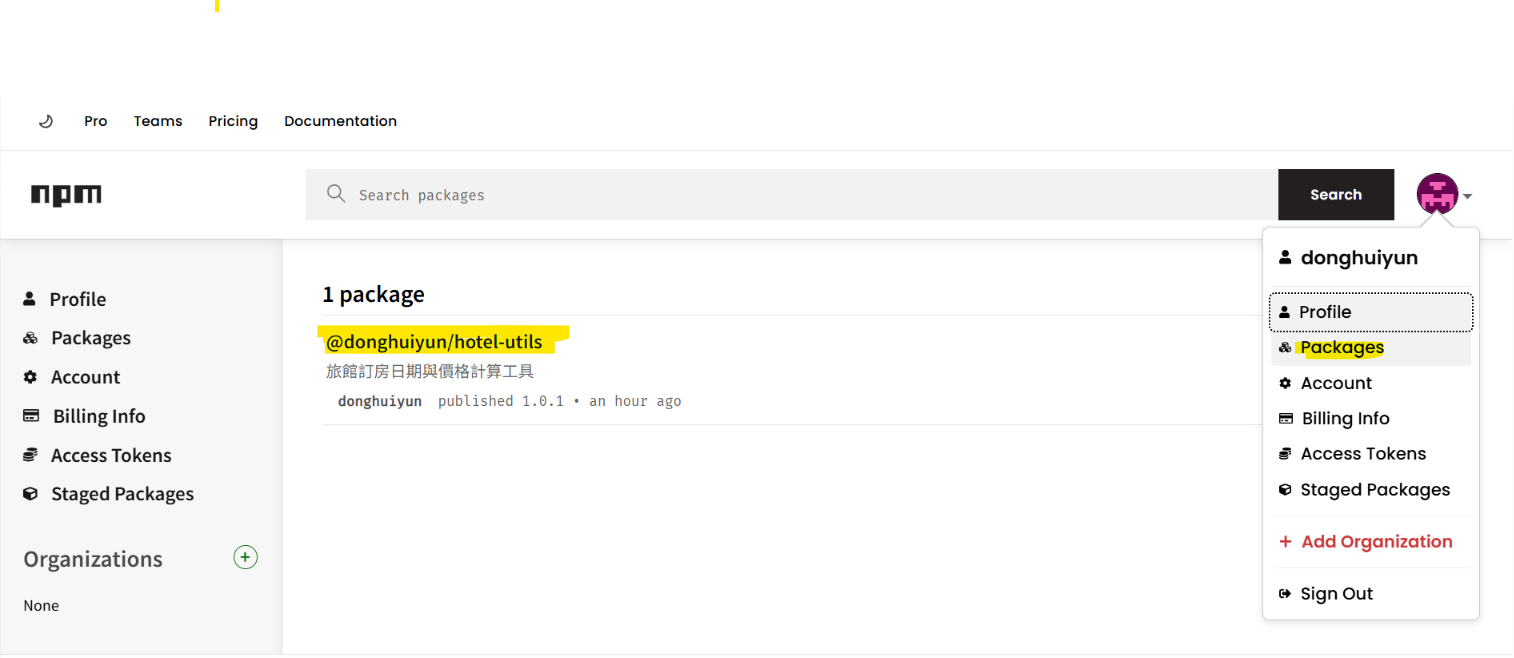
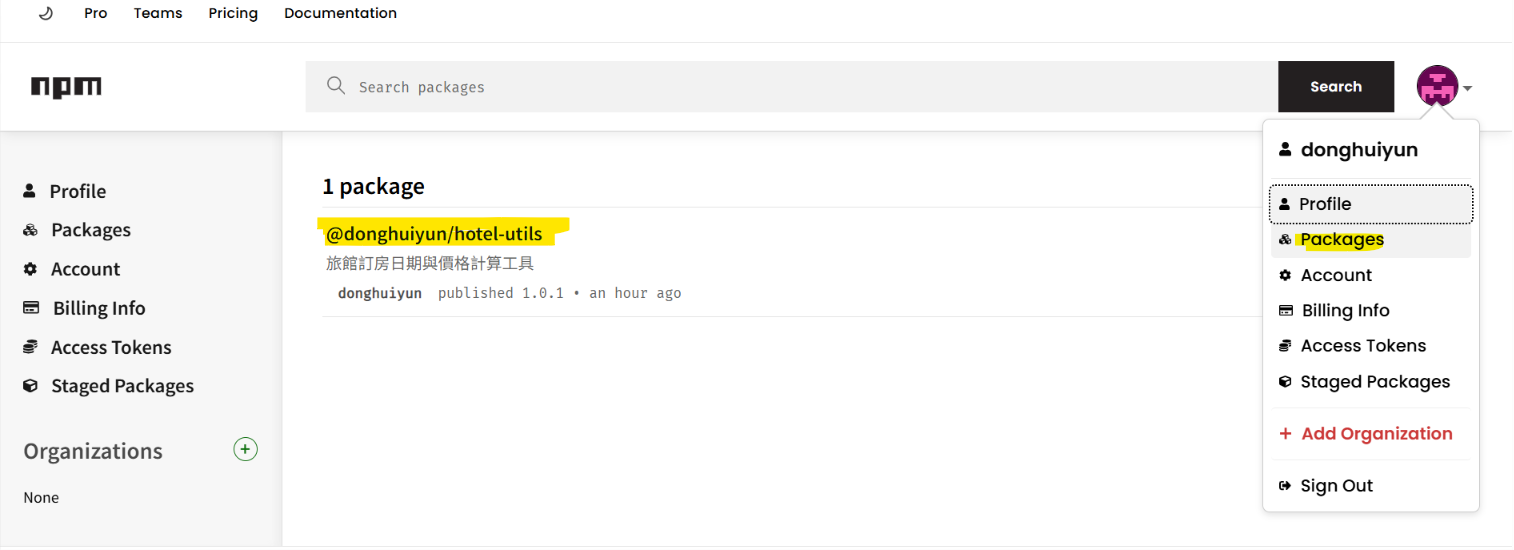
add 習題

diff --git a/Week10/README.md b/Week10/README.md
@@ -73,9 +73,12 @@ npm view @npm帳號/hotel-utils
 
 ```
 
-在
+在 npm 界面 中，右鍵右上角的頭像，點選 Packages，即可看到新增的套件
 
 ![npm](images/test-npm.png)
+
+
+[npm 套件網址](https://www.npmjs.com/package/@donghuiyun/hotel-utils/v/1.0.0)
 
 ### 7. 在其他資料夾進行測試
 
@@ -221,7 +224,14 @@ python -m twine upload dist/*
 
 ### 6. 驗證
 
-發佈後可至 `https://pypi.org/project/donghuiyun-hotel-utils/` 確認網頁顯示，並切換到其他資料夾測試安裝與執行：
+發佈後，在 phpi 界面 中，右鍵右上角的帳號名稱，選擇 **Your projects** 即可查看新建的套件
+
+![pypi](images/test-pypi.png)
+
+
+[pypi 套件網址](https://pypi.org/project/donghuiyun-hotel-utils/)
+
+切換到其他資料夾測試安裝與執行：
 
 ```bash
 
